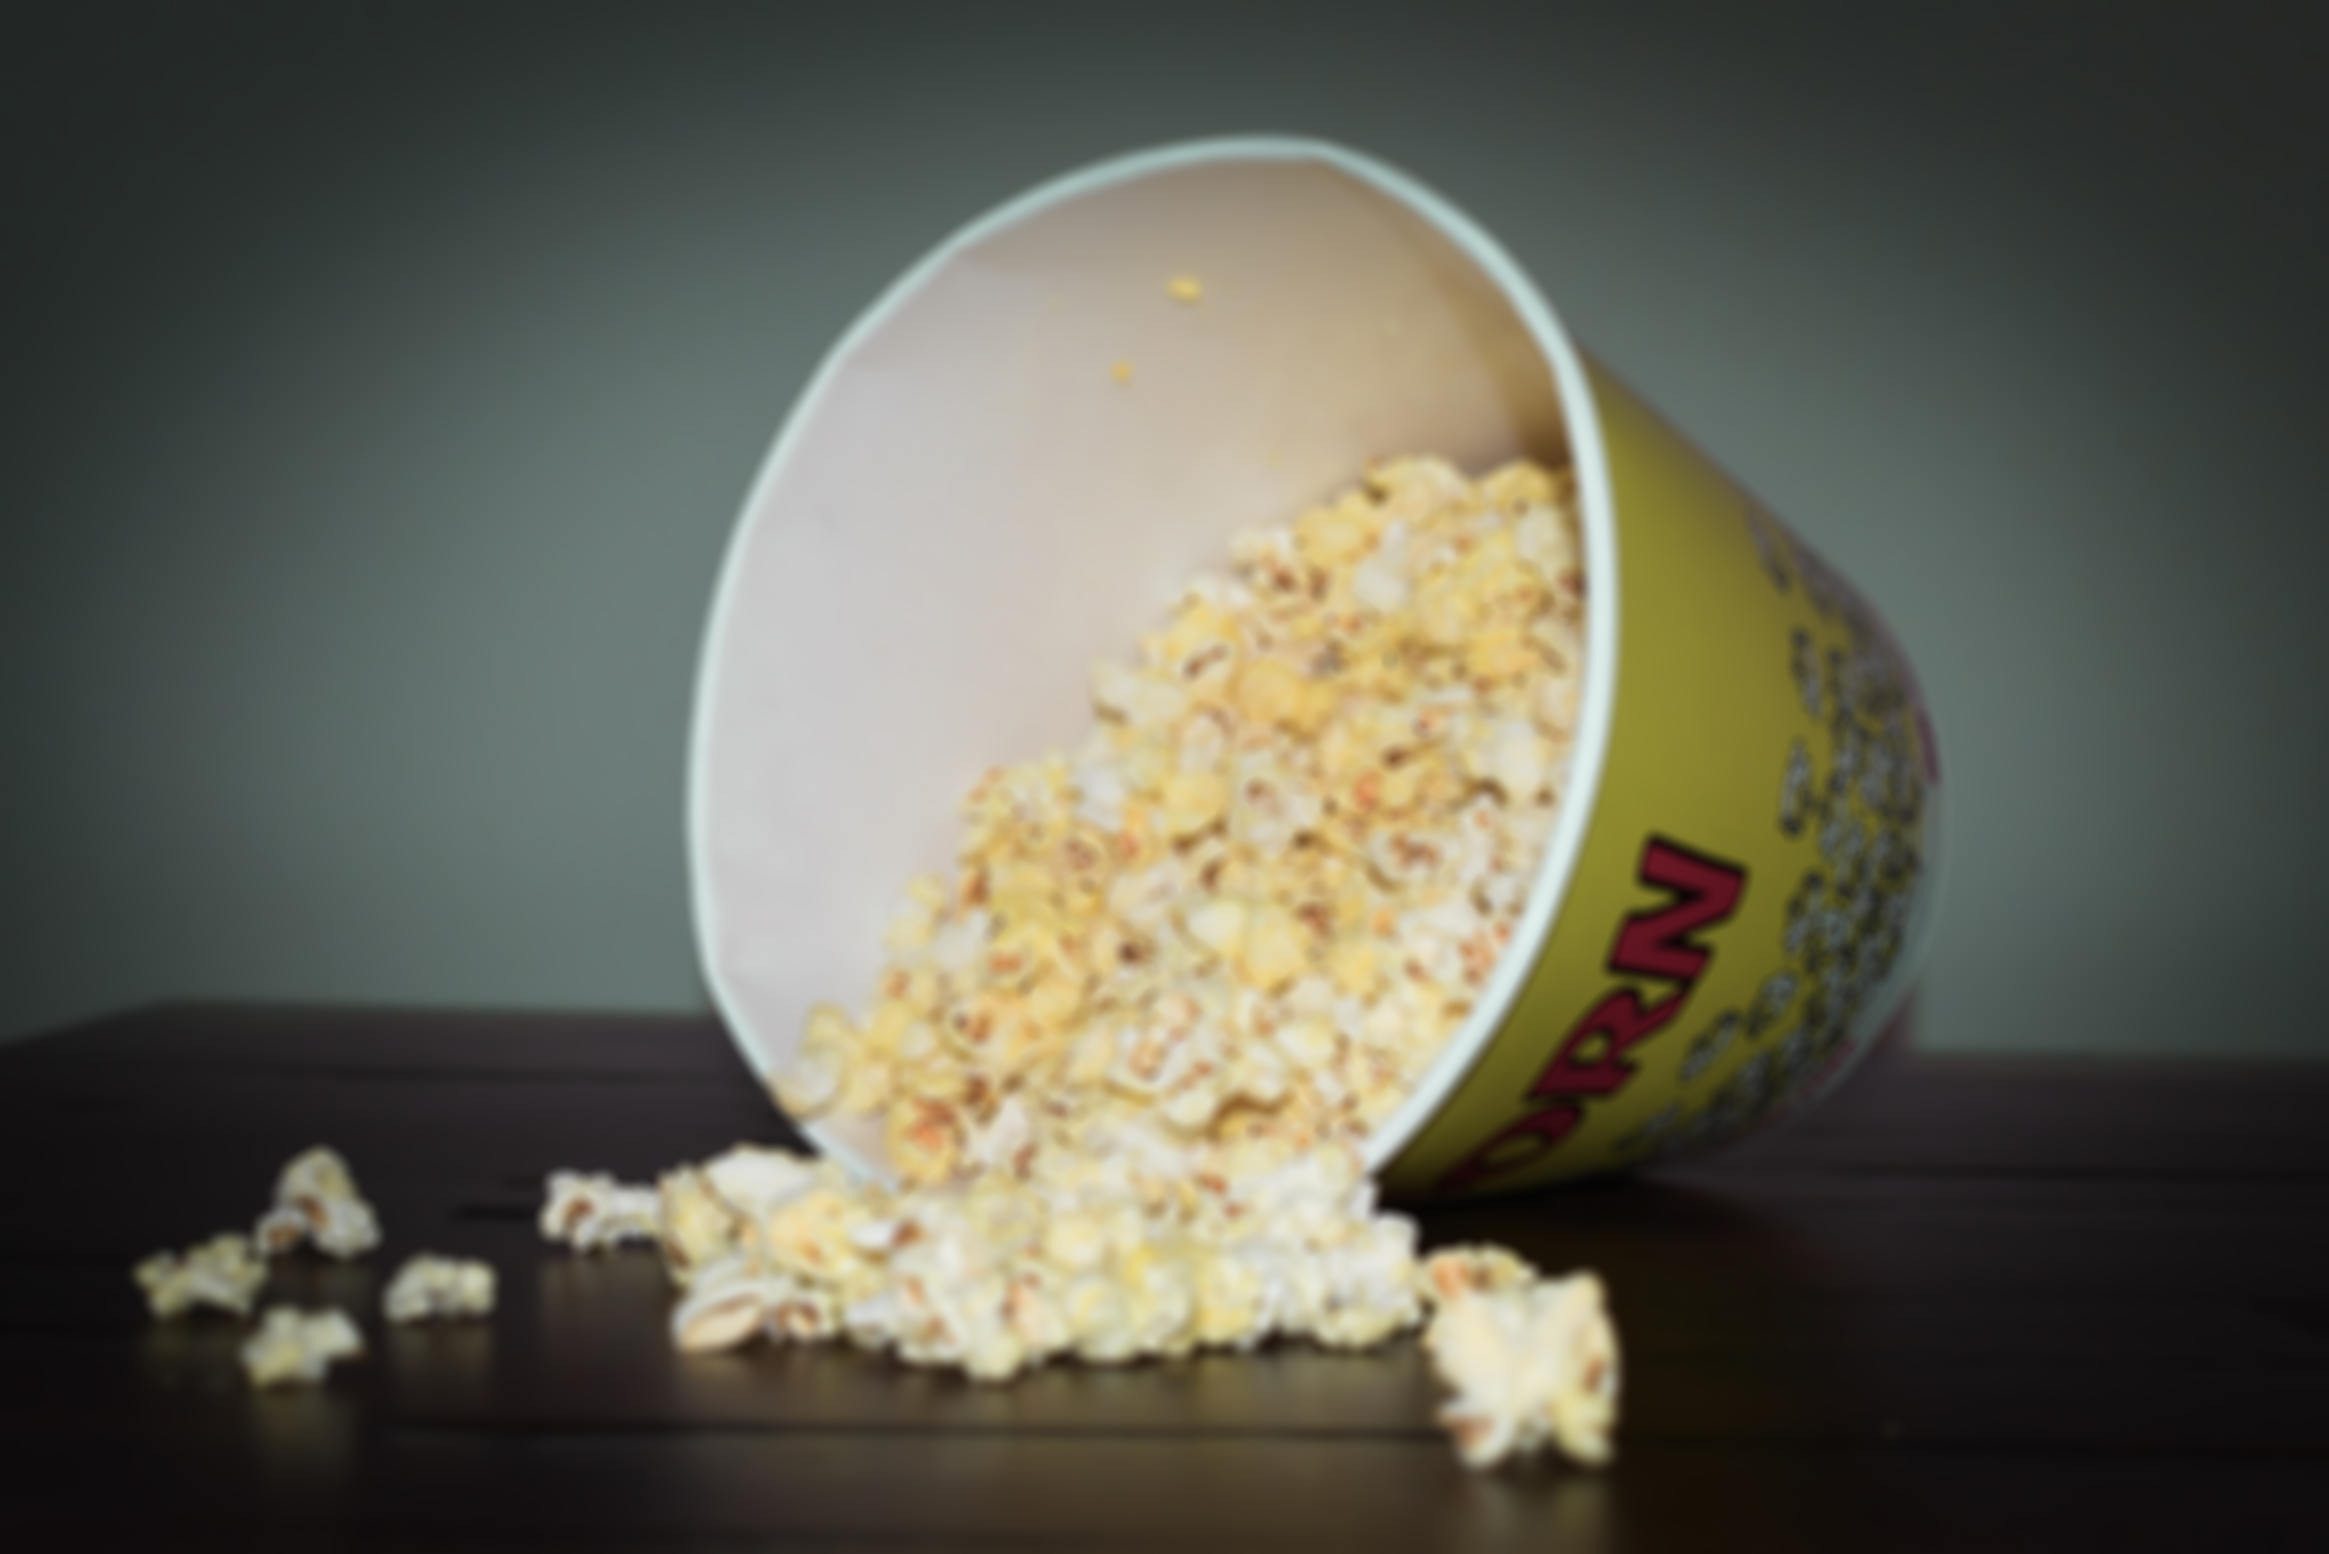
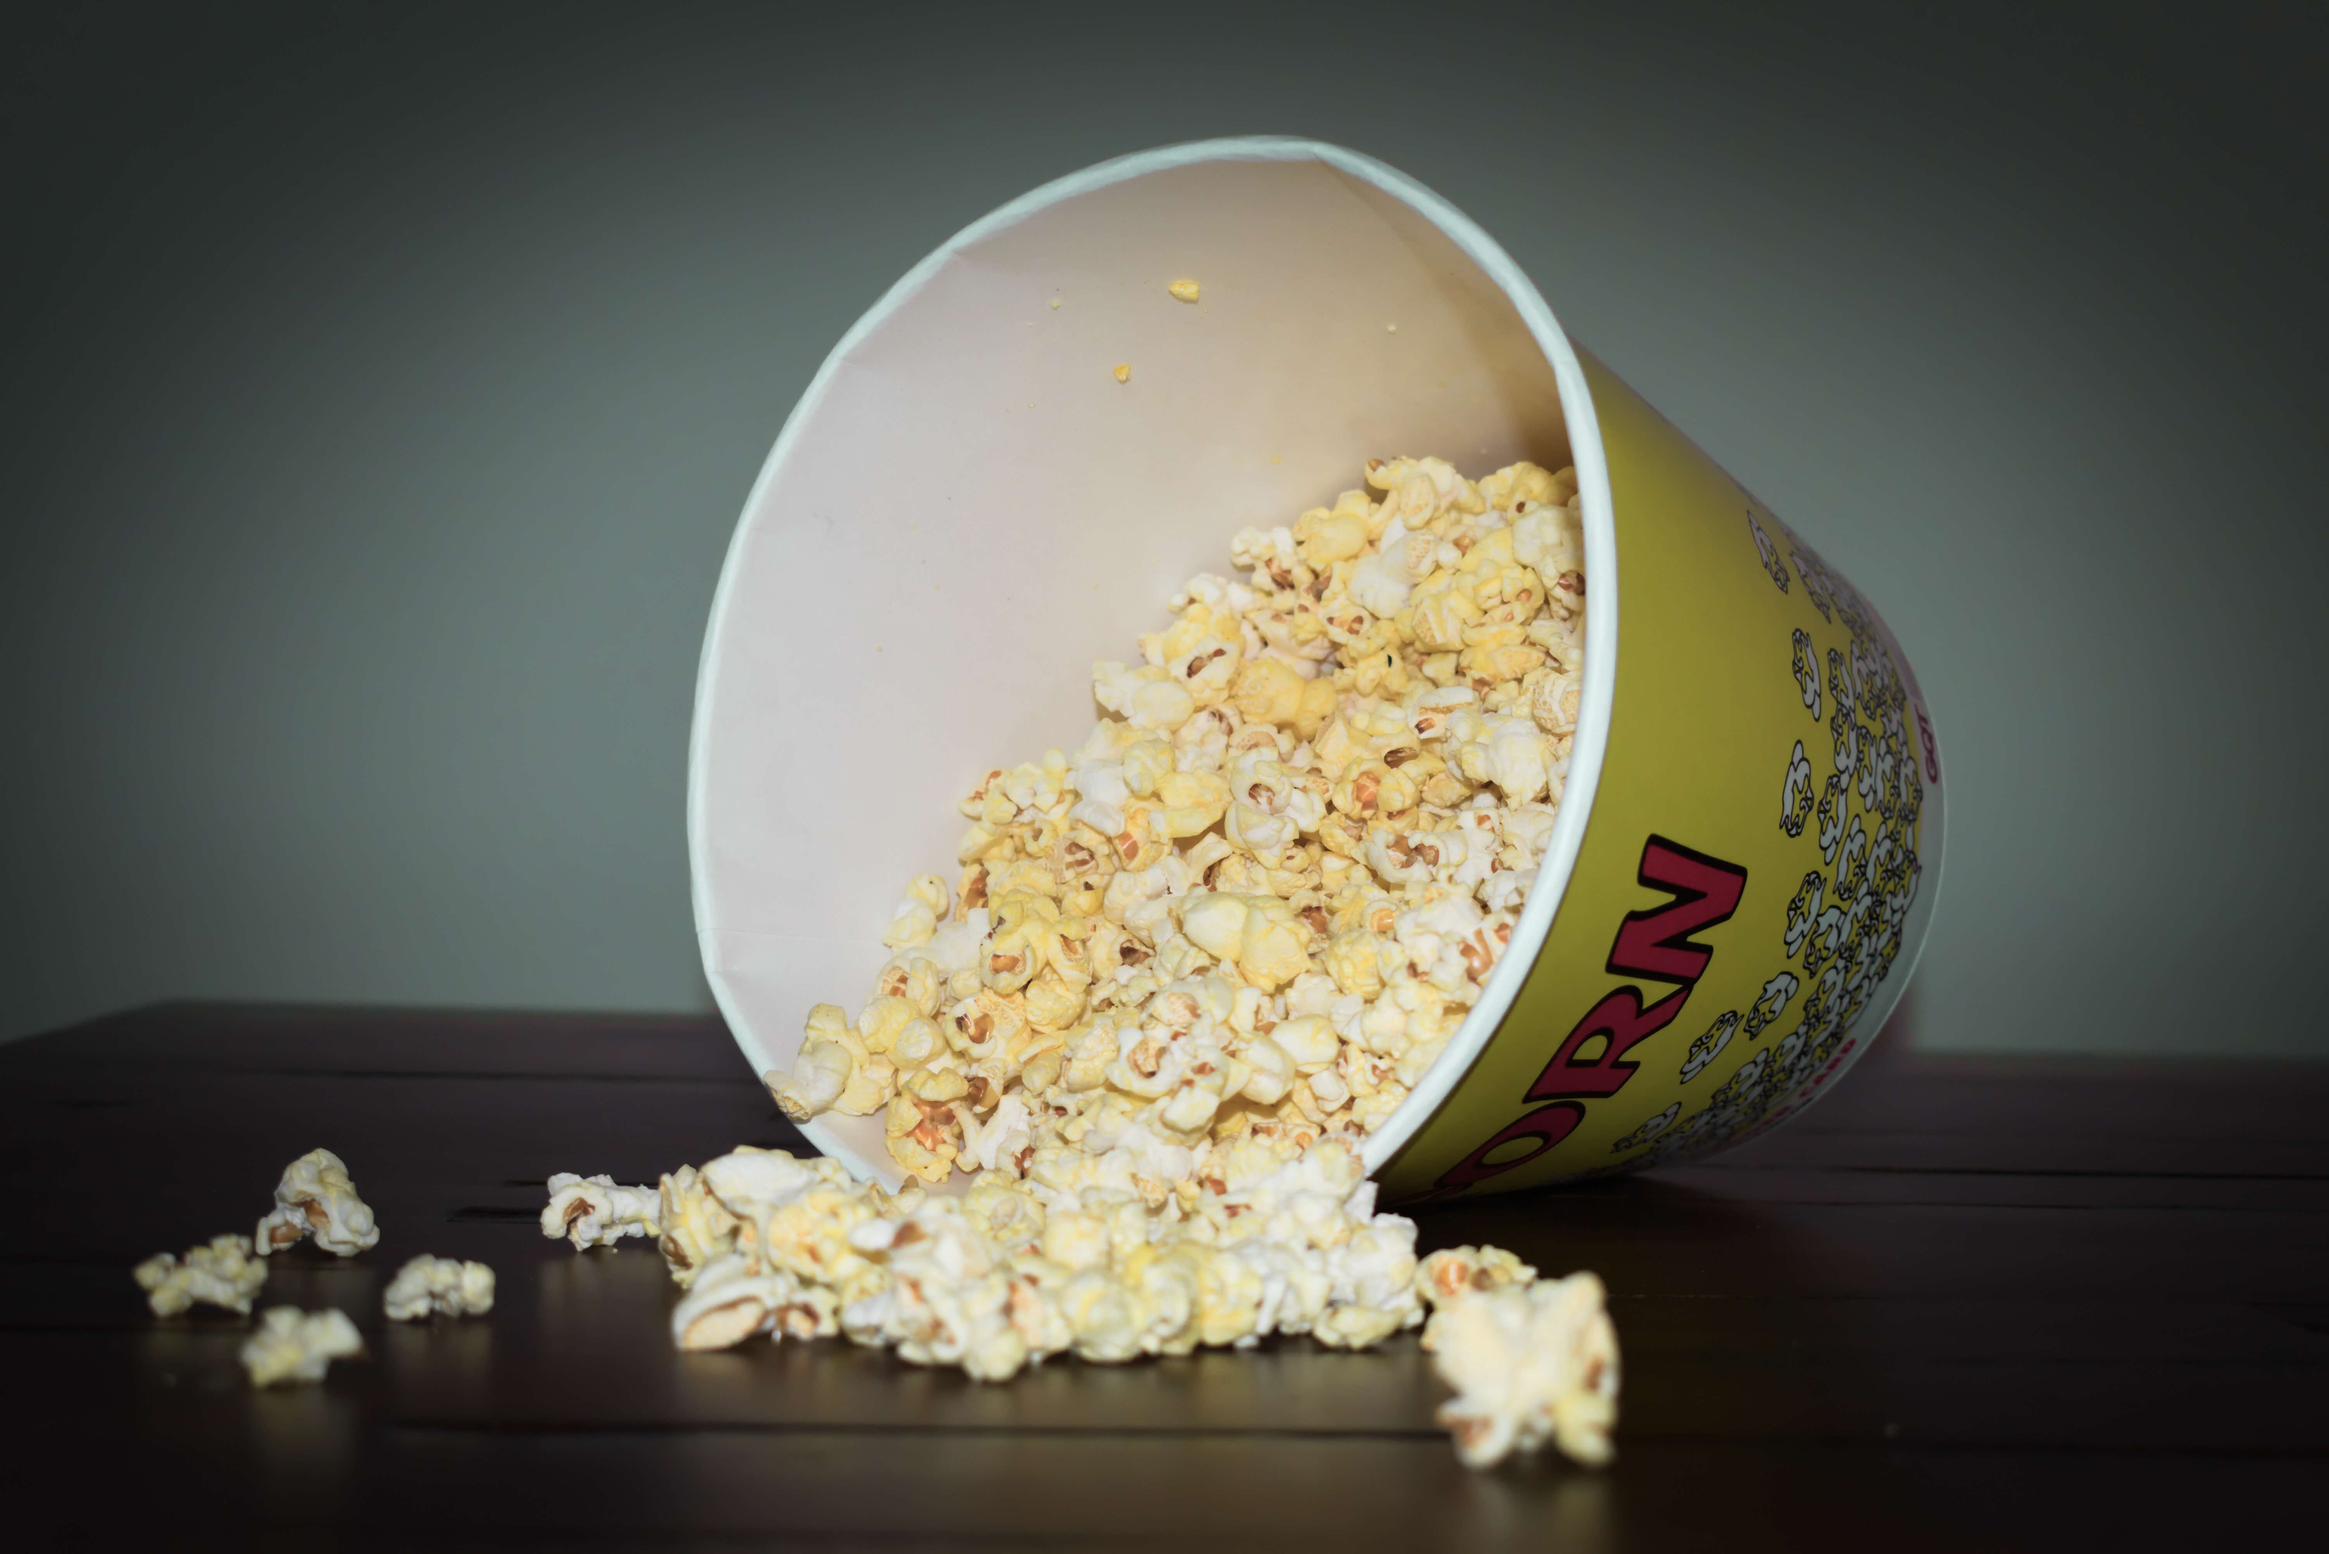
login/signup styled, searchbar is now a component, navbar transformed into hamburger menu, background images compressed for faster loading

diff --git a/src/components/MovieList.js b/src/components/MovieList.js
@@ -4,7 +4,7 @@ import axios from 'axios';
 
 import MovieAPI from '../MovieApi.js';
 import MovieCard from './MovieCard';
-import GenreList from './GenreList.js';
+import SearchBar from './SearchBar';
 
 import '../css/MovieList.css';
 
@@ -19,11 +19,9 @@ class MovieList extends Component {
     this.api = new MovieAPI();
     this.state = {
       movies: [],
-      // filteredGenre: null,
       showGenreFilter: true,
       isModalVisible: false,
       selectedMovie: {},
-      hover: false,
       searchInputValue: '',
       genres: [],
     };
@@ -81,12 +79,6 @@ class MovieList extends Component {
     );
   };
 
-  // handleAllMovies = () => {
-  //   axios
-  //     .get(`${serverLink}/movies/`)
-  //     .then(response => this.setState({ movies: response.data }));
-  // }
-
   toggleModal = id => {
     // eslint-disable-next-line react/destructuring-assignment
     if (this.state.isModalVisible) {
@@ -100,13 +92,6 @@ class MovieList extends Component {
         )
         .catch(err => console.log(err));
     }
-  };
-
-  toggleHover = () => {
-    const { hover } = this.state;
-    this.setState({
-      hover: !hover,
-    });
   };
 
   handleChange = event => {
@@ -136,6 +121,7 @@ class MovieList extends Component {
   // the genre list, and to display a grid of MovieItems based on breakpoints.
 
   render() {
+
     const {
       movies,
       showGenreFilter,
@@ -144,19 +130,11 @@ class MovieList extends Component {
       searchInputValue,
       genres,
     } = this.state;
+
     const postersForAllMovies = movies.map(movie => movie.images.posters);
     const imagesForAllMovies = postersForAllMovies.map(poster =>
       poster.map(p => p.poster_url),
     );
-
-    // On hover function to display genre list through mega menu
-    let hoverStyle;
-    const { hover } = this.state;
-    if (hover) {
-      hoverStyle = { display: 'flex' };
-    } else {
-      hoverStyle = { display: 'none' };
-    }
 
     return (
       <div id="movie-page">
@@ -166,8 +144,17 @@ class MovieList extends Component {
             isModalVisible={isModalVisible}
             movie={selectedMovie}
             genres={genres}
+            searchInputValue={searchInputValue}
+            showGenreFilter={showGenreFilter}
           />
         )}
+        <SearchBar
+          onSubmit={this.handleSubmit}
+          onChange={this.handleChange}
+          genres={genres}
+          handleSendGenre={this.handleSendGenre}
+          showGenreFilter={showGenreFilter}
+        />
         <div
           id="yamovie-movie-list"
           className="container"
@@ -175,29 +162,6 @@ class MovieList extends Component {
             opacity: isModalVisible ? 0.08 : '',
           }}
         >
-          <div id="mega-search-genres">
-            <form id="browse-search" onSubmit={this.handleSubmit}>
-              <input
-                type="text"
-                value={searchInputValue}
-                onChange={this.handleChange}
-                placeholder="Search Movies"
-              />
-            </form>
-            <button type="button" id="display-genre-button" onClick={this.toggleHover}>
-              Display Genres
-            </button>
-            {showGenreFilter ? (
-              <GenreList
-                genres={genres}
-                style={hoverStyle}
-                toggleHover={this.toggleHover}
-                moviesByGenreKey={this.handleSendGenre}
-              />
-            ) : (
-              ' '
-            )}
-          </div>
           <div id="list-all-movies">
             {imagesForAllMovies.map((moviePosters, i) => (
               <div id="yamovie-movie-item" key={movies[i].title}>

diff --git a/src/components/SearchBar.js b/src/components/SearchBar.js
@@ -1,0 +1,75 @@
+import React, { Component } from 'react'
+import PropTypes, { array } from 'prop-types'
+import GenreList from "./GenreList";
+
+export default class SearchBar extends Component {
+  static propTypes = {
+    onSubmit: PropTypes.func.isRequired,
+    onChange: PropTypes.func.isRequired,
+    searchInputValue: PropTypes.string.isRequired,
+    genres: PropTypes.shape(array).isRequired,
+    showGenreFilter: PropTypes.bool.isRequired,
+    handleSendGenre: PropTypes.func.isRequired,
+  }
+
+  constructor(props) {
+    super(props);
+
+    this.state = {
+      hover: false,
+    }
+  }
+
+  toggleHover = () => {
+    const { hover } = this.state;
+    this.setState({
+      hover: !hover,
+    });
+  };
+
+  render() {
+    const {
+      onSubmit,
+      onChange,
+      genres,
+      searchInputValue,
+      showGenreFilter,
+      handleSendGenre
+    } = this.props;
+
+    // On hover function to display genre list through mega menu
+    let hoverStyle;
+    const { hover } = this.state;
+    if (hover) {
+      hoverStyle = { display: 'flex' };
+    } else {
+      hoverStyle = { display: 'none' };
+    }
+
+    return (
+      <div id="mega-search-genres">
+        <form id="browse-search" onSubmit={onSubmit}>
+          <input
+            type="text"
+            value={searchInputValue}
+            onChange={onChange}
+            placeholder="Search Movies"
+          />
+        </form>
+        <button type="button" id="display-genre-button" onClick={this.toggleHover}>
+              Display Genres
+        </button>
+        {showGenreFilter ? (
+          <GenreList
+            genres={genres}
+            style={hoverStyle}
+            toggleHover={this.toggleHover}
+            moviesByGenreKey={handleSendGenre}
+          />
+        ) : (
+          ' '
+        )}
+      </div>
+    )
+  }
+}

diff --git a/src/css/MovieList.css b/src/css/MovieList.css
@@ -32,7 +32,7 @@
 #mega-search-genres {
   position: sticky;
   z-index: 5;
-  top: 60px;
+  top: 65px;
   width: 100%;
   display: flex;
   flex-direction: row;
@@ -104,8 +104,21 @@
   box-shadow: 2px 2px 2px rgba(119, 117, 117, 0.2);
 }
 
+@media only screen and (max-width: 400px) {
+  #list-all-movies {
+    padding-top: 30px;
+  }
+}
+
 /* Both these media tags fixes the size of the mega menu when resized for small screens */
 @media only screen and (max-width: 600px) {
+  #list-all-movies {
+    padding-top: 20px;
+  }
+
+  #yamovie-movie-item {
+    padding-top: 15px;
+  }
 
   #browse-search input {
     font-size: 15px;
@@ -116,12 +129,14 @@
   }
 }
 
+
 /* Small devices (landscape phones, 576px and up) */
 @media (min-width: 576px) {
   #yamovie-movie-item {
     width: 50%;
     padding-left: 10px;
     padding-right: 10px;
+    padding-top: 15px;
   }
 }
 
@@ -149,7 +164,7 @@
 @media (min-width: 1200px) {
   #yamovie-movie-item {
     width: 23%;
-    padding-top: 10px;
+    padding-top: 15px;
     padding-left: 10px;
     padding-right: 10px;
   }

diff --git a/src/css/MovieCard.css b/src/css/MovieCard.css
@@ -8,7 +8,7 @@
 .movie-card {
   display: flex;
   justify-content: center;
-  padding: 2vh 0px;
+  padding: 6vh 0px;
   z-index: 10;
   position: fixed;
   width: 100%;
@@ -85,13 +85,13 @@
   color: var(--darkgrey);
   font-weight: 500;
   margin: 0;
-  font-size: 3.2vw;
+  font-size: 3vw;
 }
 
 .movie-card .heading h4 {
   font-weight: 400;
   margin: 0;
-  font-size: 2vw;
+  font-size: 1.8vw;
 }
 
 .movie-card .heading .genres {
@@ -173,7 +173,7 @@
 
 .movie-card #streams h3 {
   margin: 0;
-  font-size: 3.5vh;
+  font-size: 2.5vh;
 }
 
 .movie-card #streams ul {

diff --git a/src/css/Signup.css b/src/css/Signup.css
@@ -1,5 +1,5 @@
 .signup-page {
-  background-image: url('/images/login-splash.jpg');
+  background-image: url('/images/signup-bg-v1.jpg');
   height: 100vh;
   max-width: 100%;
   background-size: cover;
